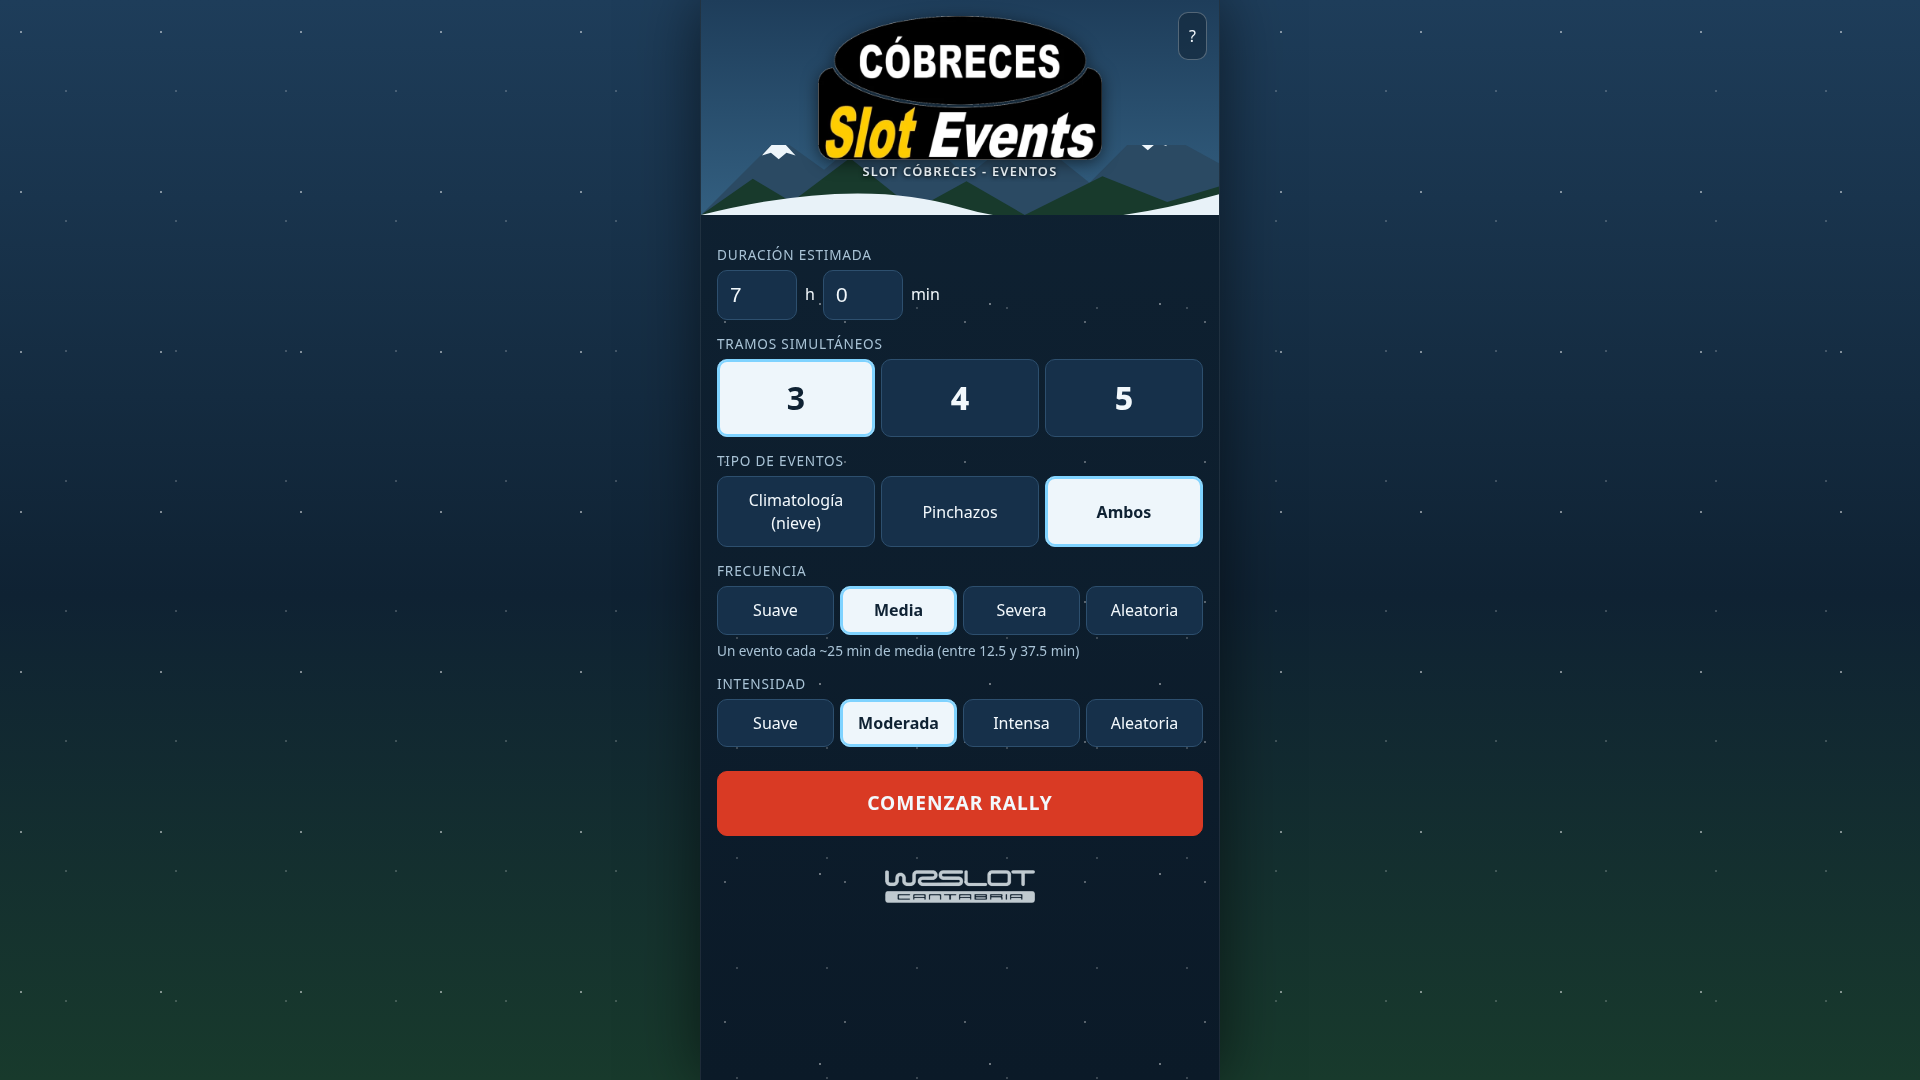
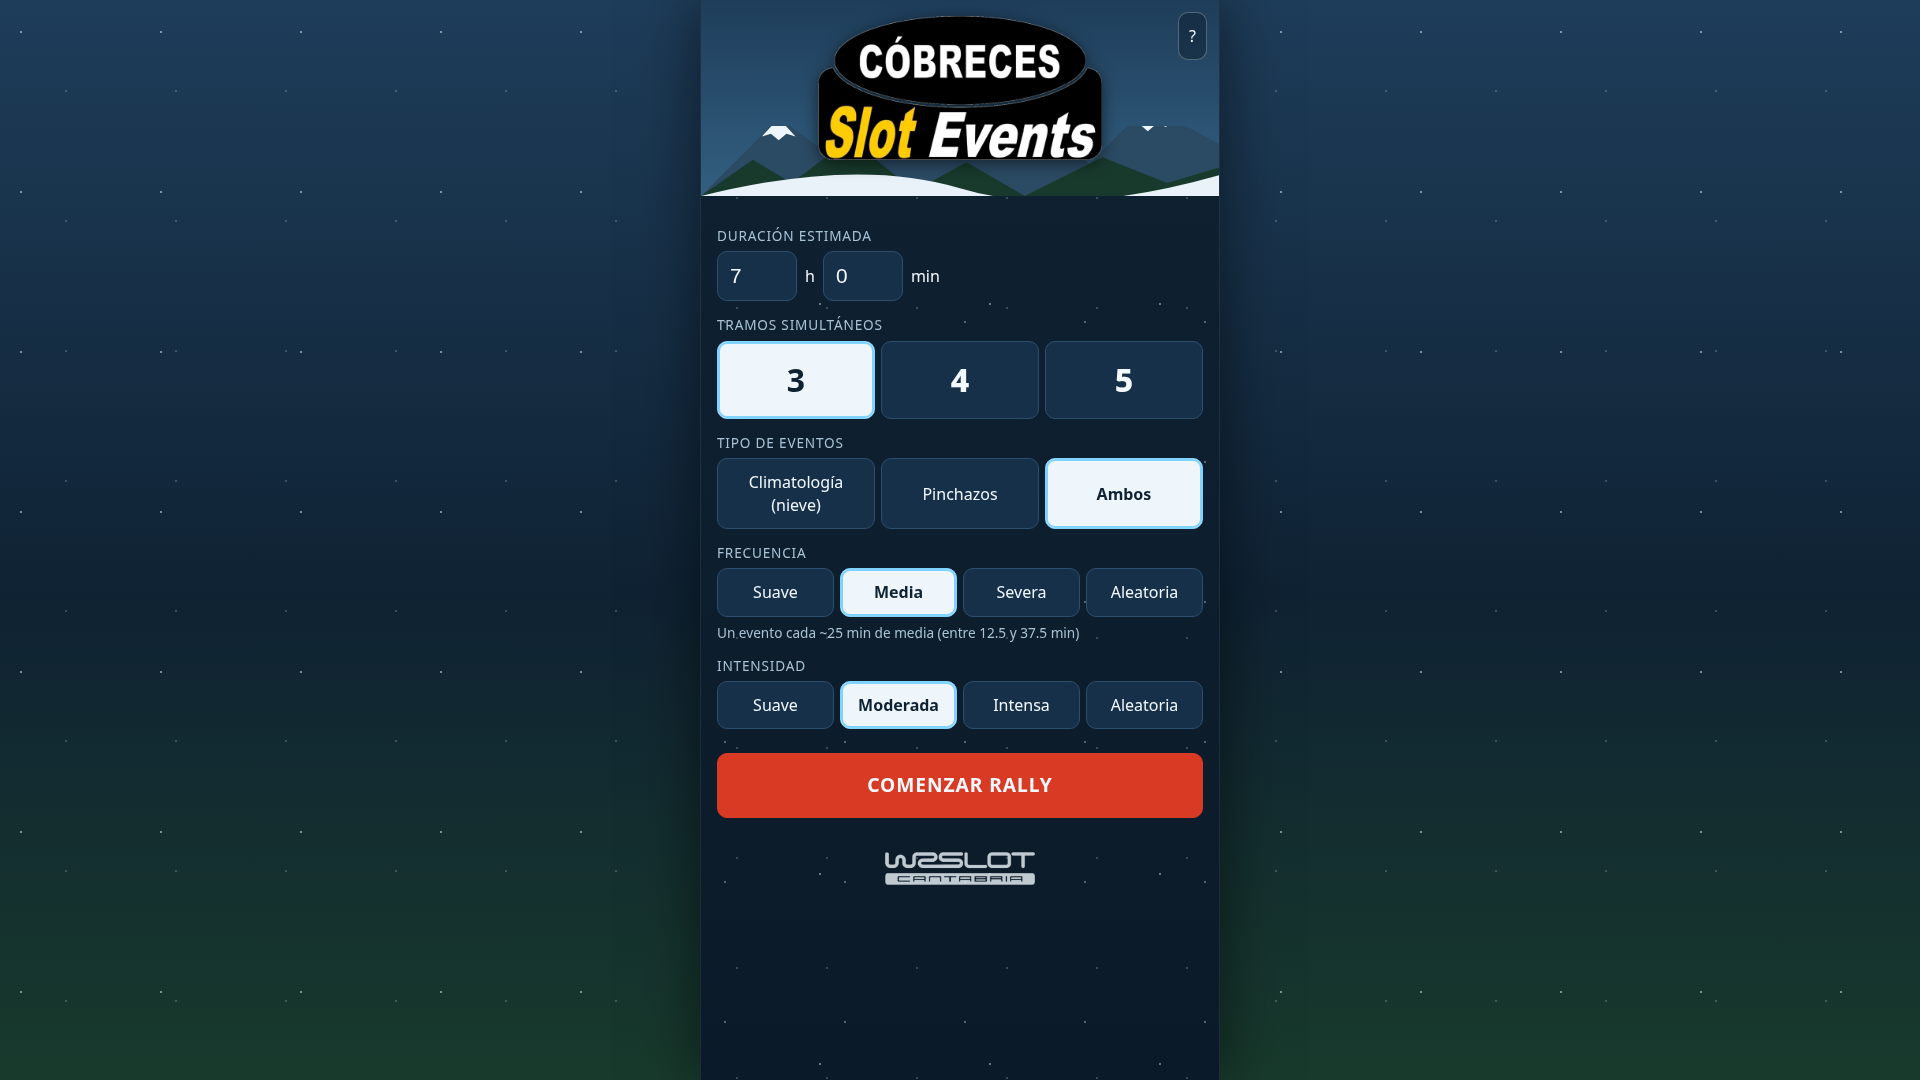
Deploy v8

Changed region(s): [[0.3438, 0.1222, 0.6562, 0.8556]]

diff --git a/index.html b/index.html
@@ -8,7 +8,7 @@
 <link rel="manifest" href="manifest.webmanifest">
 <link rel="icon" href="icons/icon-192.png">
 <link rel="apple-touch-icon" href="icons/icon-192.png">
-<link rel="stylesheet" href="style.css?v=7">
+<link rel="stylesheet" href="style.css?v=8">
 </head>
 <body>
 <header>
@@ -18,7 +18,7 @@
     <path d="M0 90l40-28 30 18 45-34 50 40 40-22 45 26 60-30 50 20 40-12V90z" fill="#183a2c"/>
     <path d="M0 90q120-30 200-6t200-10V90z" fill="#e8f2f8"/>
   </svg>
-  <h1><img class="logo" src="assets/logo-cobreces.webp" alt="Cóbreces Slot Events" width="720" height="366"><span class="name">Slot Cóbreces - Eventos</span></h1><button id="helpBtn" class="ghost" aria-label="Ayuda">?</button></header>
+  <h1><img class="logo" src="assets/logo-cobreces.webp" alt="Slot Cóbreces - Eventos" width="720" height="366"></h1><button id="helpBtn" class="ghost" aria-label="Ayuda">?</button></header>
 
 <main>
 <section id="setup" class="screen">
@@ -78,6 +78,6 @@
   <p class="note">⚠ Con el móvil bloqueado durante mucho tiempo, el navegador puede suspender la app y las alertas pueden no llegar a tiempo. Esto requiere un servidor de notificaciones push, que llegará en una versión futura.</p>
   <form method="dialog"><button class="primary">Entendido</button></form>
 </dialog>
-<script src="app.js?v=7"></script>
+<script src="app.js?v=8"></script>
 </body>
 </html>

diff --git a/sw.js b/sw.js
@@ -1,4 +1,4 @@
-const CACHE = 'eventos-v7';
+const CACHE = 'eventos-v8';
 const ASSETS = ['./','index.html','style.css','app.js','manifest.webmanifest','icons/icon-192.png','icons/icon-512.png','assets/logo-cobreces.webp','assets/logo-wrslot.webp'];
 // Instala saltando la caché HTTP para no guardar archivos antiguos.
 self.addEventListener('install', e => {
